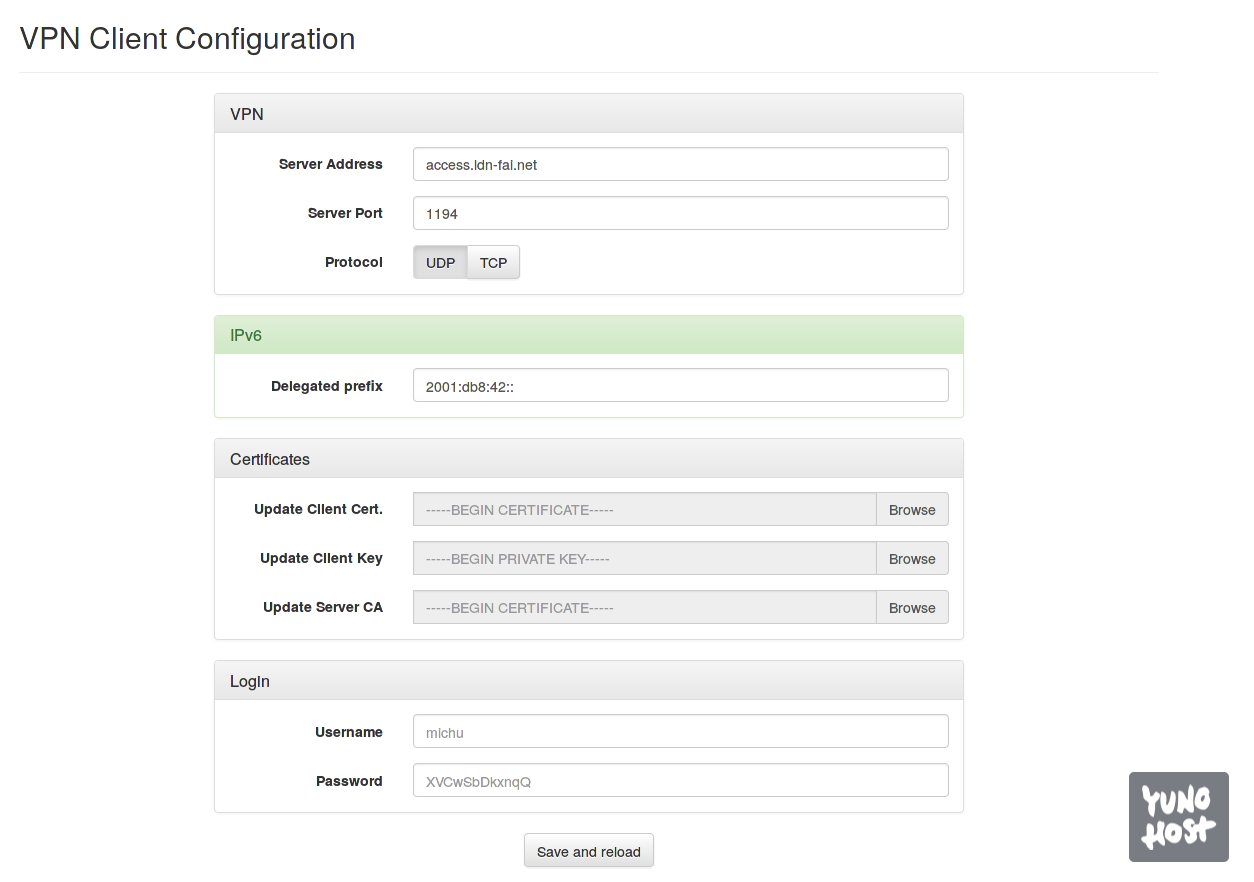
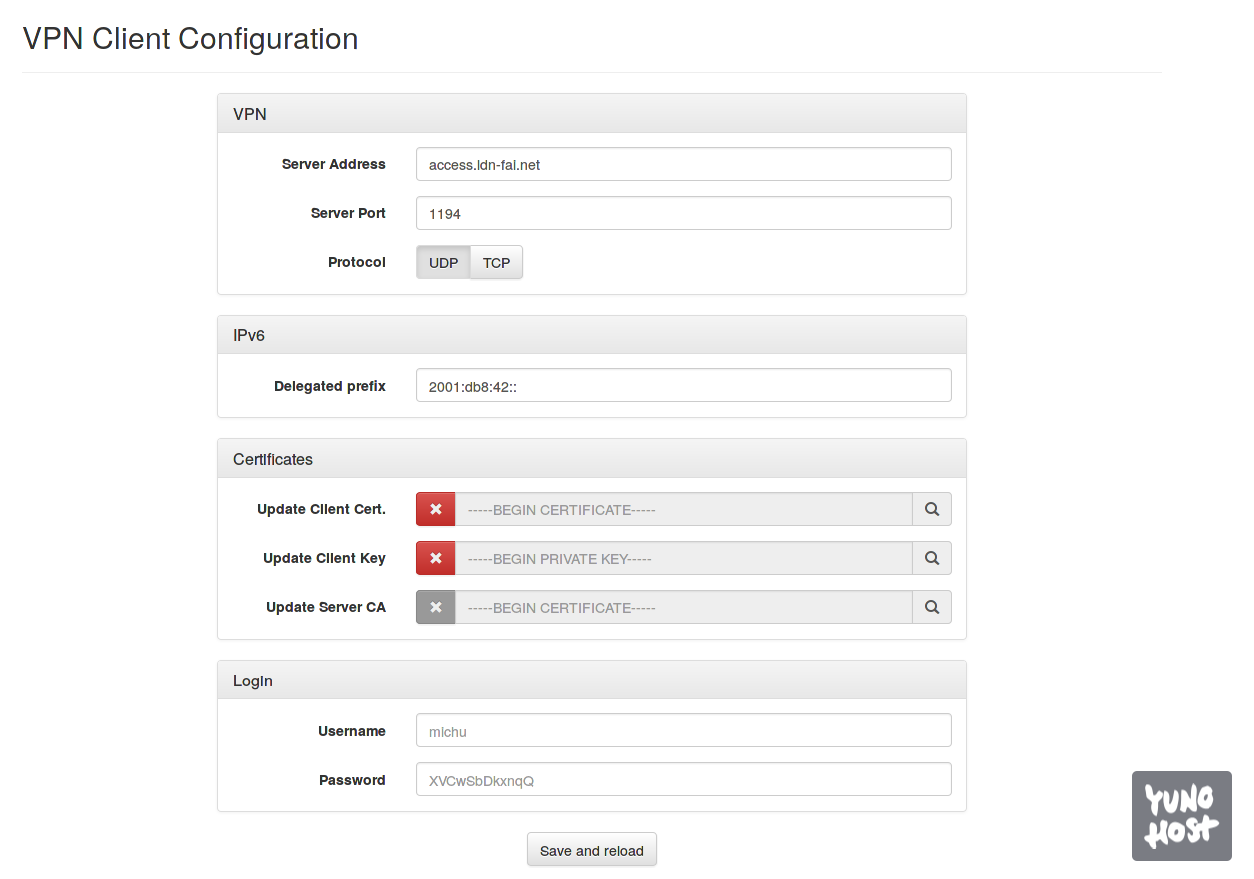
* Add input checks * Add connections without certificate * Fix bug with credentials update

diff --git a/sources/public/js/custom.js b/sources/public/js/custom.js
@@ -3,12 +3,40 @@ $(document).ready(function() {
   $('[data-toggle="tooltip"]').tooltip();
 
   $('.fileinput').click(function() {
-    var realinputid = '#' + $(this).attr('id').replace(/_chooser.*/, '');
-    $(realinputid).click();
+    if(!$(this).hasClass('btn-danger')) {
+      var realinputid = '#' + $(this).attr('id').replace(/_chooser.*/, '');
+
+      $(realinputid).click();
+    }
+  });
+
+  $('.deletefile').click(function() {
+    var chooserbtnid = '#' + $(this).attr('id').replace(/_deletebtn$/, '_chooserbtn');
+    var choosertxtid = '#' + $(this).attr('id').replace(/_deletebtn$/, '_choosertxt');
+    var fileinputid = '#' + $(this).attr('id').replace(/_deletebtn$/, '');
+    var deleteinputid = '#' + $(this).attr('id').replace(/btn$/, '');
+
+    $(deleteinputid).click();
+    $(chooserbtnid).toggleClass('btn-danger');
+    $(chooserbtnid).toggleClass('not-allowed');
+    $(choosertxtid).toggleClass('btn-danger');
+    $(choosertxtid).val($(choosertxtid).hasClass('btn-danger') ? 'Removal requested' : '');
+    $(fileinputid).val('');
+
+    if($(this).attr('id').search('_key') >= 0) {
+      if($(choosertxtid).hasClass('btn-danger') != $('#crt_client_choosertxt').hasClass('btn-danger')) {
+        $('#crt_client_deletebtn').click();
+      }
+    } else {
+      if($(choosertxtid).hasClass('btn-danger') != $('#crt_client_key_choosertxt').hasClass('btn-danger')) {
+        $('#crt_client_key_deletebtn').click();
+      }
+    }
   });
 
   $('input[type="file"]').change(function() {
     var choosertxtid = '#' + $(this).attr('id') + '_choosertxt';
+
     $(choosertxtid).val($(this).val());
   });
 });

diff --git a/sources/public/css/style.css b/sources/public/css/style.css
@@ -1,0 +1,25 @@
+a.btn-danger span {
+  color: #eee;
+}
+
+a.btn-danger:hover span {
+  color: #fff;
+}
+
+a.not-allowed {
+  cursor: not-allowed;
+}
+
+input.allowed {
+  cursor: default;
+}
+
+a.btn-disabled, a.btn-disabled:hover, a.btn-disabled:active {
+  background-color: #999;
+  background-image: none;
+  border-color: #888;
+}
+
+a.btn-disabled:hover span {
+  color: #eee;
+}

diff --git a/sources/views/settings.html.php b/sources/views/settings.html.php
@@ -42,9 +42,9 @@
         </div>
       </div>
 
-      <div class="panel panel-success">
+      <div class="panel panel-default">
         <div class="panel-heading">
-          <h3 class="panel-title" data-toggle="tooltip" data-title="<?= T_('Real Internet') ?>"><?= T_("IPv6") ?></h3>
+          <h3 class="panel-title"><?= T_("IPv6") ?></h3>
         </div>
 
         <div style="padding: 14px 14px 0 10px">
@@ -57,6 +57,13 @@
         </div>
       </div>
 
+      <?php if(!$crt_client_key_exists && empty($login_user)): ?>
+        <div class="alert alert-dismissible alert-warning fade in" style="margin: 2px 0px 17px" role="alert">
+          <button type="button" class="close" data-dismiss="alert"><span aria-hidden="true">&times;</span><span class="sr-only">Close</span></button>
+          <strong><?= T_('Notice') ?>:</strong> <?= T_("You need to upload a Client Certificate, or define a Username (or both) for starting your VPN Client.") ?>
+        </div>
+      <?php endif; ?>
+
       <div class="panel panel-default">
         <div class="panel-heading">
           <h3 class="panel-title"><?= T_("Certificates") ?></h3>
@@ -64,29 +71,48 @@
 
         <div style="padding: 14px 14px 0 10px">
           <div class="form-group">
-            <label for="crt_client" class="col-sm-3 control-label"><?= T_('Update Client Cert.') ?></label>
+            <label for="crt_client" class="col-sm-3 control-label"><?= $crt_client_exists ? T_('Update Client Cert.') : T_('Upload Client Cert.') ?></label>
             <div class="input-group col-sm-9" style="padding: 0 15px">
-              <input id="crt_client" name="crt_client" type="file" style="display: none" />
+              <?php if($crt_client_exists): ?>
+                <a class="btn btn-danger input-group-addon deletefile" id="crt_client_deletebtn" data-toggle="tooltip" data-title="<?= T_('Delete this certificate') ?>"><span class="glyphicon glyphicon-remove"></span></a>
+                <input id="crt_client_delete" name="crt_client_delete" type="checkbox" value="1" style="display: none" />
+              <?php endif; ?>
               <input type="text" class="form-control fileinput" id="crt_client_choosertxt" placeholder="-----BEGIN CERTIFICATE-----" readonly="readonly" />
-              <a class="btn input-group-addon fileinput" id="crt_client_chooserbtn"><?= T_('Browse') ?></a>
+              <input id="crt_client" name="crt_client" type="file" style="display: none" />
+              <a class="btn input-group-addon fileinput" id="crt_client_chooserbtn" data-toggle="tooltip" data-title="<?= T_('Browse') ?>"><span class="glyphicon glyphicon-search"></span></a>
             </div>
           </div>
 
           <div class="form-group">
-            <label for="crt_client_key" class="col-sm-3 control-label"><?= T_('Update Client Key') ?></label>
+            <label for="crt_client_key" class="col-sm-3 control-label"><?= $crt_client_key_exists ? T_('Update Client Key') : T_('Upload Client Key') ?></label>
             <div class="input-group col-sm-9" style="padding: 0 15px">
-              <input id="crt_client_key" name="crt_client_key" type="file" style="display: none" />
+              <?php if($crt_client_key_exists): ?>
+                <a class="btn btn-danger input-group-addon deletefile" id="crt_client_key_deletebtn" data-toggle="tooltip" data-title="<?= T_('Delete this certificate') ?>"><span class="glyphicon glyphicon-remove"></span></a>
+                <input id="crt_client_key_delete" name="crt_client_key_delete" type="checkbox" value="1" style="display: none" />
+              <?php endif; ?>
               <input type="text" class="form-control fileinput" id="crt_client_key_choosertxt" placeholder="-----BEGIN PRIVATE KEY-----" readonly="readonly" />
-              <a class="btn input-group-addon fileinput" id="crt_client_key_chooserbtn"><?= T_('Browse') ?></a>
+              <input id="crt_client_key" name="crt_client_key" type="file" style="display: none" />
+              <a class="btn input-group-addon fileinput" id="crt_client_key_chooserbtn" data-toggle="tooltip" data-title="<?= T_('Browse') ?>"><span class="glyphicon glyphicon-search"></span></a>
             </div>
           </div>
 
           <div class="form-group">
-            <label for="crt_server_ca" class="col-sm-3 control-label"><?= T_('Update Server CA') ?></label>
+            <?php if(!$crt_server_ca_exists): ?>
+              <div class="alert alert-dismissible alert-warning fade in" style="margin: 2px 16px 17px" role="alert">
+                <button type="button" class="close" data-dismiss="alert"><span aria-hidden="true">&times;</span><span class="sr-only">Close</span></button>
+                <strong><?= T_('Notice') ?>:</strong> <?= T_("You need to upload a Server CA for starting your VPN Client.") ?>
+              </div>
+            <?php endif; ?>
+
+            <label for="crt_server_ca" class="col-sm-3 control-label"><?= $crt_server_ca_exists ? T_('Update Server CA') : T_('Upload Server CA') ?></label>
             <div class="input-group col-sm-9" style="padding: 0 15px">
-              <input id="crt_server_ca" name="crt_server_ca" type="file" style="display: none" />
+              <?php if($crt_server_ca_exists): ?>
+                <a class="btn btn-danger not-allowed btn-disabled input-group-addon" id="crt_server_ca_deletebtn" data-toggle="tooltip" data-title="<?= T_('You cannot have no server CA') ?>"><span class="glyphicon glyphicon-remove"></span></a>
+                <input id="crt_server_ca_delete" name="crt_server_ca_delete" type="checkbox" value="1" style="display: none" />
+              <?php endif; ?>
               <input type="text" class="form-control fileinput" id="crt_server_ca_choosertxt" placeholder="-----BEGIN CERTIFICATE-----" readonly="readonly" />
-              <a class="btn input-group-addon fileinput" id="crt_server_ca_chooserbtn"><?= T_('Browse') ?></a>
+              <input id="crt_server_ca" name="crt_server_ca" type="file" style="display: none" />
+              <a class="btn input-group-addon fileinput" id="crt_server_ca_chooserbtn" data-toggle="tooltip" data-title="<?= T_('Browse') ?>"><span class="glyphicon glyphicon-search"></span></a>
             </div>
           </div>
         </div>

diff --git a/sources/controller.php b/sources/controller.php
@@ -1,21 +1,33 @@
 <?php
 
 function moulinette_get($var) {
-  return htmlspecialchars(exec("sudo yunohost app setting vpnclient ".escapeshellarg($var)));
+  return htmlspecialchars(exec('sudo yunohost app setting vpnclient '.escapeshellarg($var)));
 }
 
 function moulinette_set($var, $value) {
-  return exec("sudo yunohost app setting vpnclient ".escapeshellarg($var)." -v ".escapeshellarg($value));
+  return exec('sudo yunohost app setting vpnclient '.escapeshellarg($var).' -v '.escapeshellarg($value));
 }
 
 function stop_service() {
-  exec('sudo service ynh-vpnclient stop');
+  exec('sudo service ynh-vpnclient litestop');
 }
 
 function start_service() {
   exec('sudo service ynh-vpnclient start', $output, $retcode);
 
   return $retcode;
+}
+
+function ipv6_expanded($ip) {
+  exec('ipv6_expanded '.escapeshellarg($ip), $output);
+
+  return $output[0];
+}
+
+function ipv6_compressed($ip) {
+  exec('ipv6_compressed '.escapeshellarg($ip), $output);
+
+  return $output[0];
 }
 
 dispatch('/', function() {
@@ -28,12 +40,72 @@ dispatch('/', function() {
   set('login_user', moulinette_get('login_user'));
   set('login_passphrase', moulinette_get('login_passphrase'));
   set('ip6_net', $ip6_net);
+  set('crt_client_exists', file_exists('/etc/openvpn/keys/user.crt'));
+  set('crt_client_key_exists', file_exists('/etc/openvpn/keys/user.key'));
+  set('crt_server_ca_exists', file_exists('/etc/openvpn/keys/ca-server.crt'));
 
   return render('settings.html.php');
 });
 
 dispatch_put('/settings', function() {
+  $crt_client_exists = file_exists('/etc/openvpn/keys/user.crt');
+  $crt_client_key_exists = file_exists('/etc/openvpn/keys/user.key');
+  $crt_server_ca_exists = file_exists('/etc/openvpn/keys/ca-server.crt');
+
   $ip6_net = empty($_POST['ip6_net']) ? 'none' : $_POST['ip6_net'];
+  $ip6_addr = 'none';
+
+  if(empty($_POST['server_name']) || empty($_POST['server_port']) || empty($_POST['server_proto'])) {
+    flash('error', T_('The Server Address, the Server Port and the Protocol cannot be empty.'));
+    goto redirect;
+  }
+
+  if(!preg_match('/^\d+$/', $_POST['server_port'])) {
+    flash('error', T_('The Server Port must be only composed of digits.'));
+    goto redirect;
+  }
+
+  if($_POST['server_proto'] != 'udp' && $_POST['server_proto'] != 'tcp') {
+    flash('error', T_('The Protocol must be "udp" or "tcp".'));
+    goto redirect;
+  }
+
+  if(($_FILES['crt_client']['error'] == UPLOAD_ERR_OK && $_FILES['crt_client_key']['error'] != UPLOAD_ERR_OK && (!$crt_client_key_exists || $_POST['crt_client_key_delete'] == 1))
+    || ($_FILES['crt_client_key']['error'] == UPLOAD_ERR_OK && $_FILES['crt_client']['error'] != UPLOAD_ERR_OK && (!$crt_client_exists || $_POST['crt_client_delete'] == 1))) {
+
+    flash('error', T_('A Client Certificate is needed when you suggest a Key (or vice versa).'));
+    goto redirect;
+  }
+
+  if(empty($_POST['login_user']) xor empty($_POST['login_passphrase'])) {
+    flash('error', T_('A Password is needed when you suggest a Username (or vice versa).'));
+    goto redirect;
+  }
+
+  if($_FILES['crt_server_ca']['error'] != UPLOAD_ERR_OK && !$crt_server_ca_exists) {
+    flash('error', T_('You need a Server CA.'));
+    goto redirect;
+  }
+
+  if(($_FILES['crt_client_key']['error'] != UPLOAD_ERR_OK && (!$crt_client_key_exists || $_POST['crt_client_key_delete'] == 1)) && empty($_POST['login_user'])) {
+    flash('error', T_('You need either a Client Certificate, either a Username (or both).'));
+    goto redirect;
+  }
+
+  if($ip6_net != 'none') {
+    $ip6_net = ipv6_expanded($ip6_net);
+
+    if(empty($ip6_net)) {
+      flash('error', T_('The IPv6 Delegated Prefix format looks bad.'));
+      goto redirect;
+    }
+
+    $ip6_blocs = explode(':', $ip6_net);
+    $ip6_addr = "${ip6_blocs[0]}:${ip6_blocs[1]}:${ip6_blocs[2]}:${ip6_blocs[3]}:${ip6_blocs[4]}:${ip6_blocs[5]}:${ip6_blocs[6]}:1";
+
+    $ip6_net = ipv6_compressed($ip6_net);
+    $ip6_addr = ipv6_compressed($ip6_addr);
+  }
 
   stop_service();
 
@@ -43,25 +115,28 @@ dispatch_put('/settings', function() {
   moulinette_set('login_user', $_POST['login_user']);
   moulinette_set('login_passphrase', $_POST['login_passphrase']);
   moulinette_set('ip6_net', $ip6_net);
-
-  # TODO: format ip6_net
-  if($ip6_net == 'none') {
-    moulinette_set('ip6_addr', 'none');
-  } else {
-    $ip6_addr = "${ip6_net}1";
-    moulinette_set('ip6_addr', $ip6_addr);
-  }
+  moulinette_set('ip6_addr', $ip6_addr);
 
   if($_FILES['crt_client']['error'] == UPLOAD_ERR_OK) {
     move_uploaded_file($_FILES['crt_client']['tmp_name'], '/etc/openvpn/keys/user.crt');
+  } elseif($_POST['crt_client_delete'] == 1) {
+    unlink('/etc/openvpn/keys/user.crt');
   }
 
   if($_FILES['crt_client_key']['error'] == UPLOAD_ERR_OK) {
     move_uploaded_file($_FILES['crt_client_key']['tmp_name'], '/etc/openvpn/keys/user.key');
+  } elseif($_POST['crt_client_key_delete'] == 1) {
+    unlink('/etc/openvpn/keys/user.key');
   }
 
   if($_FILES['crt_server_ca']['error'] == UPLOAD_ERR_OK) {
     move_uploaded_file($_FILES['crt_server_ca']['tmp_name'], '/etc/openvpn/keys/ca-server.crt');
+  }
+
+  if(!empty($_POST['login_user'])) {
+    file_put_contents('/etc/openvpn/keys/credentials', "${_POST['login_user']}\n${_POST['login_passphrase']}");
+  } else {
+    file_put_contents('/etc/openvpn/keys/credentials', '');
   }
 
   $retcode = start_service();
@@ -72,6 +147,7 @@ dispatch_put('/settings', function() {
     flash('error', T_('Configuration updated but service reload failed'));
   }
 
+  redirect:
   redirect_to('/');
 });
 
